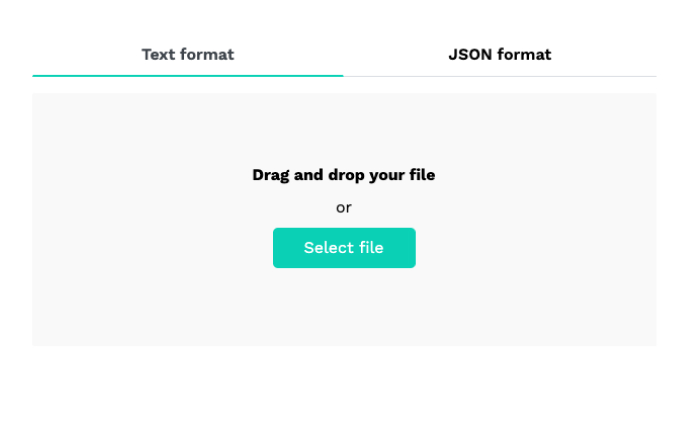
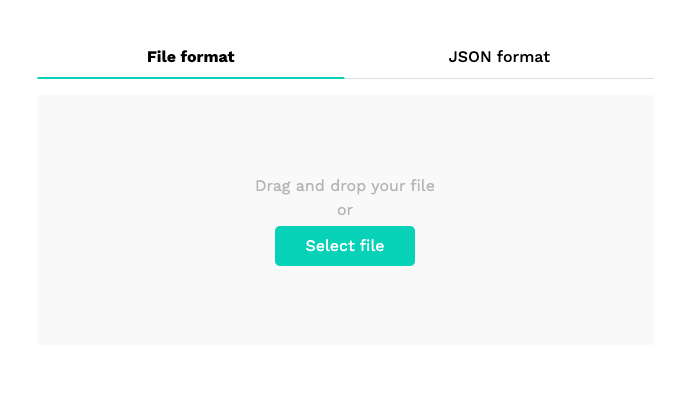
Fix style issues

Changed region(s): [[0.3631, 0.3881, 0.6354, 0.6866], [0.0303, 0.1194, 0.5144, 0.209], [0.6354, 0.0896, 0.817, 0.1791]]

diff --git a/src/components/FileSection.js b/src/components/FileSection.js
@@ -151,7 +151,7 @@ const FileSection = () => {
 
   async function validateData() {
     setIsLoading(true);
-    const apiKey = window.env.BLOOCK_API_KEY;
+    const apiKey = window.env.API_KEY;
     const client = new BloockClient(apiKey);
 
     //Get proof
@@ -205,9 +205,9 @@ const FileSection = () => {
   const documentHash = currentRecord && currentRecord[0].getHash();
 
   return (
-    <div className="container-md">
+    <div className="container-md px-4">
       <Row className="flex-column flex-lg-row align-items-center pt-8">
-        <Col style={{ paddingRight: "50px", marginBottom: "30px" }}>
+        <Col style={{ paddingRight: "50px", paddingTop: "10px"}}>
           <h1 className="bold-text title">
             Validate your records on blockchain
           </h1>
@@ -242,7 +242,10 @@ const FileSection = () => {
             </li>
           </ul>
         </Col>
-        <Col className="mb-10" style={{ marginBottom: "30px" }}>
+        <Col
+          className="mb-10"
+          style={{  height: "400px" ,  paddingTop: "10px"}}
+        >
           <Tabs justify defaultActiveKey="text" className="mb-3 ">
             <Tab eventKey="text" title="File format">
               <section>
@@ -342,16 +345,6 @@ const FileSection = () => {
                     onChange={(e) => handleJSONSubmit(e)}
                   />
 
-                  {isError ? (
-                    <div>
-                      <br />
-                      <p>
-                        {" "}
-                        Please introduce a valid JSON for the validation{" "}
-                      </p>{" "}
-                    </div>
-                  ) : null}
-
                   {isLoading ? (
                     <button className="button" style={{ border: "none" }}>
                       Loading...
@@ -367,15 +360,25 @@ const FileSection = () => {
                           Validate another JSON
                         </button>
                       ) : (
-                        <button
-                          className="button mt-3 validateButton"
-                          style={{ border: "none" }}
-                          onClick={validateData}
-                          type="submit"
-                          disabled={isJSONValidated === false}
-                        >
-                          Validate JSON
-                        </button>
+                        <div className="mt-2 text-center" style={{ height: "100px" }}>
+                          <div className={`${isError ? "visible" : "invisible"}`}>
+                          
+                            <p>
+                              {" "}
+                              Please introduce a valid JSON for the validation{" "}
+                            </p>{" "}
+                          </div>
+
+                          <button
+                            className="button mt-2 validateButton"
+                            style={{ border: "none" }}
+                            onClick={validateData}
+                            type="submit"
+                            disabled={isJSONValidated === false}
+                          >
+                            Validate JSON
+                          </button>
+                        </div>
                       )}
                     </div>
                   )}

diff --git a/src/components/VerificationSection.js b/src/components/VerificationSection.js
@@ -7,6 +7,7 @@ import { Timeline } from "primereact/timeline";
 import "../customstyles.css";
 import { Card } from "primereact/card";
 import { Divider } from "primereact/divider";
+import { ProgressSpinner } from "primereact/progressspinner";
 
 const VerificationSection = ({
   isProofRetrieved,
@@ -144,8 +145,8 @@ const VerificationSection = ({
   };
 
   return (
-    <div className="container-md mt-5 verification-section">
-      <div className=" horizontal-center timeline-margins mb-5 stepper">
+    <div className="container-md px-4 mt-5 verification-section" >
+      <div className=" horizontal-center timeline-margins mb-5 stepper" style={{paddingTop: "30px", paddingBottom:"70px"}}>
         <div className="bold-text header-title mb-4 mt-4">
           Your verification:
         </div>
@@ -161,7 +162,7 @@ const VerificationSection = ({
       <div className="horizontal-center">
         {isSuccessMessage ? (
           <>
-            <div className="pt-5">
+            <div>
               <div className="d-flex flex-row justify-content-center align-items-center">
                 <p className="px-2 fs-2">Done!</p>
               </div>
@@ -178,7 +179,7 @@ const VerificationSection = ({
                     </span>
                   </div>
                   <div className="bold-text">Document hash</div>
-                  <div className="" style={{ overflowWrap: "break-word" }}>
+                  <div style={{ overflowWrap: "break-word" }}>
                     {documentHash && documentHash}
                   </div>
                   <Divider className="my-4 pb-2" />
@@ -187,7 +188,7 @@ const VerificationSection = ({
                   <div>{isProofRetrieved.anchor.networks[0].name}</div>
                   <Divider className="my-4 pb-2" />
                   <div className="bold-text">Tx hash</div>
-                  <div className="" style={{ overflowWrap: "break-word" }}>
+                  <div  style={{ overflowWrap: "break-word" }}>
                     {isProofRetrieved.anchor.networks[0].tx_hash}
                   </div>
                   <Divider className="my-4 pb-2" />
@@ -201,9 +202,15 @@ const VerificationSection = ({
               </div>
             </div>
           </>
-        ) : null}
+        ) : (
+          <div className="progressSpinner" style={{paddingBottom:"40px"}}>
+            <ProgressSpinner style={{color: "#06d7be"}} />
+            <p className="text-secondary">Your record is being verified...</p>
+            <div className="mt-5">{""}</div>
+          </div>
+        )}
         {isErrorMessage ? (
-          <section className="container-md pt-5 verification-section">
+          <section className="container-md verification-section">
             <div className="pt-1 horizontal-center">
               <div>
                 <div>
@@ -217,7 +224,10 @@ const VerificationSection = ({
               </div>
 
               <div className="pt-2">
-                <Card className="mt-4 px-5 py-5" style={{ textAlign: "left" }}>
+                <Card
+                  className="mt-3 mb-5 px-5 py-5"
+                  style={{ textAlign: "left" }}
+                >
                   <div className="mb-5">
                     <span className="mx-2 bold-text">
                       {(selectedFile && selectedFile.name) ||

diff --git a/src/customstyles.css b/src/customstyles.css
@@ -169,8 +169,7 @@ textarea {
 @media (max-width: 750px) {
   .p-timeline.p-timeline-horizontal .p-timeline-event-opposite,
   .p-timeline.p-timeline-horizontal .p-timeline-event-content {
-    font-size: 12px;
-    padding: 0 20px;
+    padding: 0;
     margin: 0 auto;
   }
 }
@@ -200,8 +199,22 @@ textarea {
   }
 }
 
+@media (min-width: 600px) {
+  .progressSpinner {
+    display: none;
+  }
+}
+
 .validateButton:disabled {
   opacity: 50%;
-
   cursor: no-drop;
+}
+
+.p-progress-spinner-svg {
+  width: 60%;
+}
+
+.p-progress-spinner-circle {
+  stroke: #06d7be !important;
+  animation: p-progress-spinner-dash 1.5s ease-in-out infinite;
 }

diff --git a/src/components/Header.js b/src/components/Header.js
@@ -11,7 +11,7 @@ const Header = () => {
   return (
     <Fragment >
     <div className="fixed-top bg-white">
-      <div className="container-md  py-2 pt-4 d-flex align-items-center justify-content-between">
+      <div className="container-md px-4 py-2 pt-4 d-flex align-items-center justify-content-between">
         <img alt="Card" src={logo} />
 
         {/* <span className="float-right">

diff --git a/src/components/Footer.js b/src/components/Footer.js
@@ -9,7 +9,7 @@ const Footer = () => {
   return (
     <footer className="bg-light">
       <Divider className="my-0 py-2" />
-      <div className="container-md py-5 header-text d-flex justify-content-between">
+      <div className="container-md px-4 py-5 header-text d-flex justify-content-between">
         <span>Powered by BLOOCK</span>
        {/*  <span>
           Privacy policy

diff --git a/src/components/HowItWorksSection.js b/src/components/HowItWorksSection.js
@@ -12,7 +12,7 @@ import "../customstyles.css";
 const HowItWorksSection = () => {
   return (
     <div className="bg-light">
-      <div className="container-md pt-10 ">
+      <div className="container-md px-4 pt-10 ">
         <h2 className="bold-text title mb-5 text-center pt-6">How it works</h2>
         <Row className="pt-2">
           <Col
